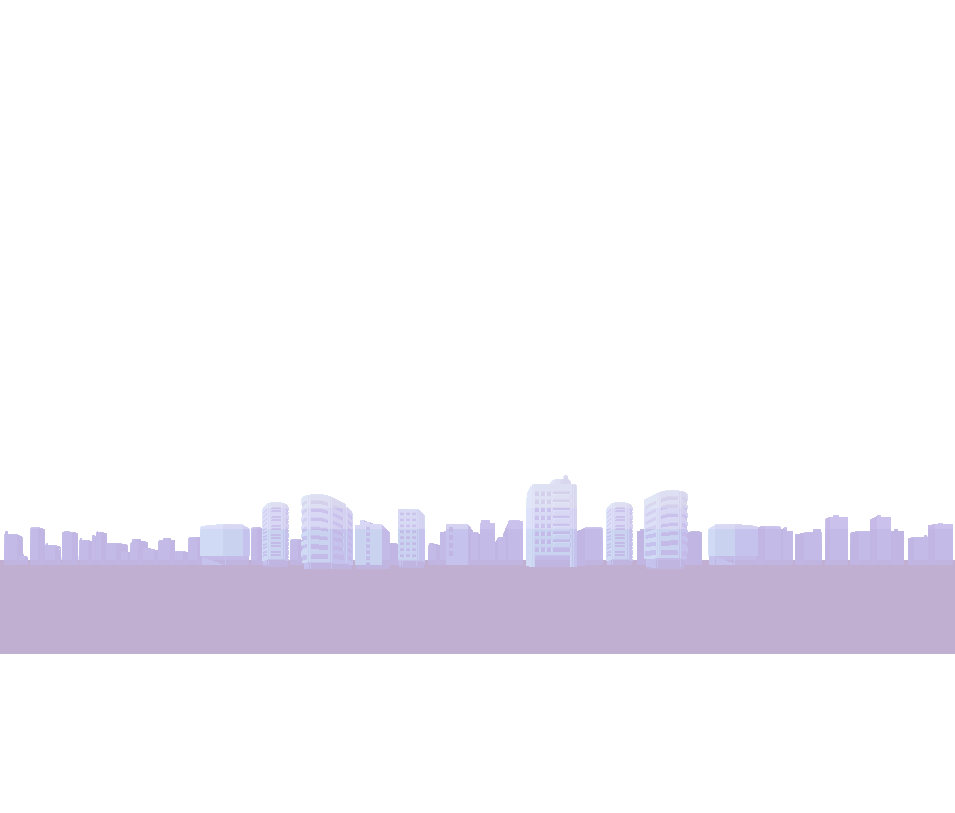
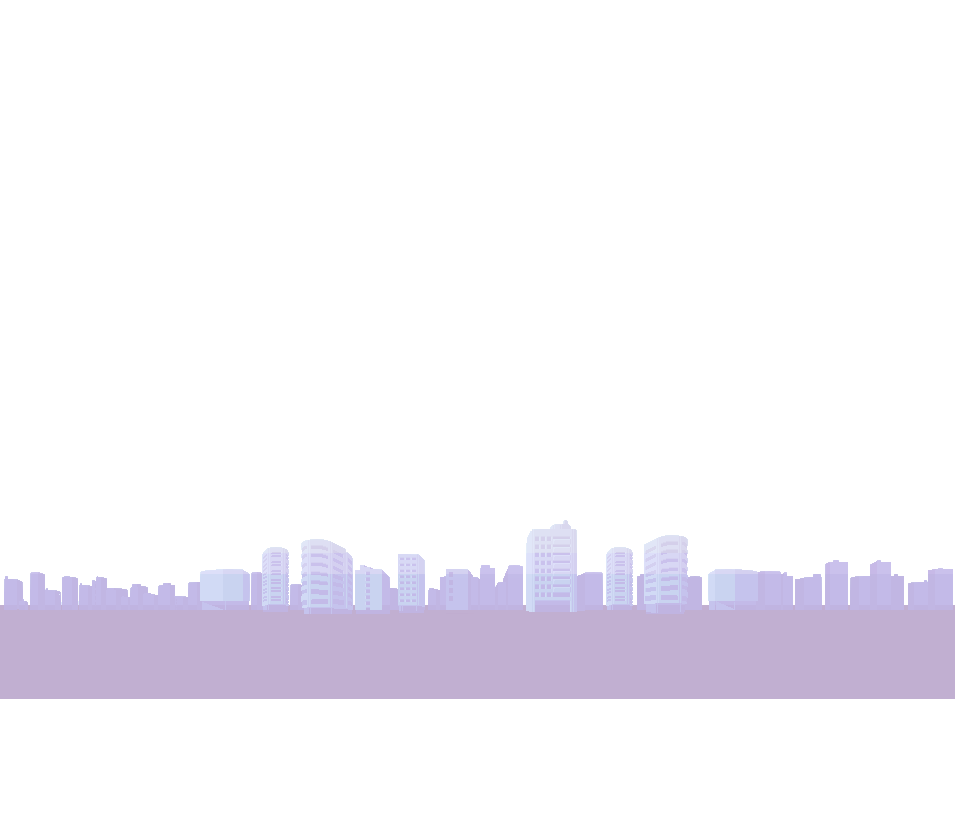
updated and fixed

Changed region(s): [[0.0, 0.5843, 1.0, 0.7688], [0.0, 0.7995, 1.0, 0.861]]

diff --git a/index.html b/index.html
@@ -117,7 +117,7 @@
         <section id="start">
             <div id="intro">
                 <div class="image">
-                <img class="wand" src="image/chapter0_parallax5.png">
+                <img class="wandbase" src="image/chapter0_parallax5.png">
                 <img class="wand" src="image/chapter0_parallax4.png">
                 <img class="wand2" src="image/chapter0_parallax3.png">
                 <img class="wand3" src="image/chapter0_parallax2.png">
@@ -133,22 +133,22 @@
 
                 // animations
                 var nervousHat = new TimelineMax({repeat: -1, yoyo: true})
-                .add(TweenMax.staggerTo("#start h1 span", 0.5, {top: -1, x: -1, scale: 1.1, color: '#c0b8e5' }, 0.2))
-                .add(TweenMax.staggerTo("#start h1 span", 0.5, {top: 0, x: 0, scale: 1, color: '#fff'}, 0.2), 0.5);
+                .add(TweenMax.staggerTo("#start h1 span", 0.5, {top: -1, x: -1, scale: 1.1, color: '#fff' }, 0.2))
+                .add(TweenMax.staggerTo("#start h1 span", 0.5, {top: 0, x: 0, scale: 1, color: '#e3f1fb'}, 0.2), 0.5);
                 var abracadabra = new TimelineMax()
                     .add([
                           TweenMax.fromTo("#start .floor", 1, {autoAlpha: 0}, {autoAlpha: 1}),
                           TweenMax.fromTo("#start h1", 1, {autoAlpha: 0}, {autoAlpha: 1}),
                           TweenMax.fromTo("#start .wand", 1, {top:0}, {top: -$(window).height()/8}),
                           TweenMax.fromTo("#start .wand2", 1, {top:0}, {top: -$(window).height()/35}),
-                          TweenMax.fromTo("#start .wand3", 1, {top:0}, {top: -$(window).height()/36})
+                          TweenMax.fromTo("#start .wand3", 1, {top:0}, {top: -$(window).height()/37})
                         ]);
                 var abracadabra = new TimelineMax()
                 var reveal = new TimelineMax()
                     .add([
 
                             TweenMax.from("#start h1", 1, {scale: 1, top: "+=0"}),
-                            TweenMax.to("#start .wand", 0.8, {top: -$(window).height()/5}),
+                            TweenMax.to("#start .wand", 0.8, {top: -$(window).height()/3}),
                             TweenMax.to("#start .wand2", 0.8, {top: -$(window).height()/17}),
                             TweenMax.to("#start .wand3", 0.8, {top: -$(window).height()/18})
                           
@@ -214,7 +214,7 @@
                 // jumping text
                 new ScrollMagic.Scene({
                         duration: 200,
-                        offset: 450
+                        offset: 100
                     })
                     .setTween(laola)
                     .addTo(controller);

diff --git a/assets/css/demo.css b/assets/css/demo.css
@@ -3,16 +3,12 @@ body {
 	background-size: 100%;
 	background-repeat: no-repeat;
 	background-attachment: fixed;
-	font-size: 25px;
-	line-height: 31px;
+	line-height: 2vh;
+    overflow-x:hidden;
 }
 ::selection {
-	background: #ff455f;
-	color: #fff;
 }
 ::-moz-selection {
-	background: #ff455f;
-	color: #fff;
 }
 a {
 	color: rgb(96, 131, 224);
@@ -47,7 +43,6 @@ iframe.twitter-follow-button {
 }
 div#content-wrapper {
 	height: 100%;
-	min-width: 900px;
 	min-height: 500px;
 }
 html.touch div#content-wrapper {
@@ -73,8 +68,7 @@ section#start {
 }
 h1 {
 	font-style: normal;
-	font-size: 45px;
-	color: #fff;
+	color: #e3f1fb;
 }
 h1 span {
 	display: inline-block;
@@ -164,7 +158,6 @@ h3 {
 	width: 100%;
 	height: 100vh;
 	position: absolute;
-    overflow:hidden;
 }
 #intro h1 {
 	text-align: center;
@@ -174,8 +167,9 @@ h3 {
 }
 #intro .tophat {
 	position: relative;
-	top: 220px;
-	width: 400px;
+	height: 40vh;
+    top: 13vh;
+    max-width:100%;
 }
 #intro .sparkpoint {
     position:relative;

diff --git a/assets/css/style.css b/assets/css/style.css
@@ -20,24 +20,23 @@ h1, h2, h3, h4 {
 	font-family: "UpheavalPro", serif;
 }
 h1 {
-    color: white;
-    font-size: 42px;
+    letter-spacing: 1px;
     text-shadow: -3px 3px 0 #77477b,
     3px 3px 0 #77477b,
     3px -3px 0 #77477b,
-    0px 3px 0 #77477b,
-    3px 0px 0 #77477b,
     -3px 0px 0 #77477b,
+    3px 0px 0 #77477b,
     0px -3px 0 #77477b,
+    0px 3px 0 #77477b,
     -3px -3px 0 #77477b;
 }
 h2 {
     color: white;
     font-size: 20px;
-    text-shadow: -1px 1px 0 #000,
-    1px 1px 0 #000,
-    1px -1px 0 #000;
-    -1px -1px 0 #000;
+    text-shadow: -3px 3px 0 #000,
+    3px 3px 0 #000,
+    3px -3px 0 #000;
+    -3px -3px 0 #000;
 }
 a, a:visited {
 	text-decoration: none;

diff --git a/assets/css/normalize.css b/assets/css/normalize.css
@@ -129,8 +129,8 @@ dfn {
  */
 
 h1 {
-  font-size: 2em;
-  margin: 0.67em 0;
+  font-size: 5vh;
+  margin: 0;
 }
 
 /**
